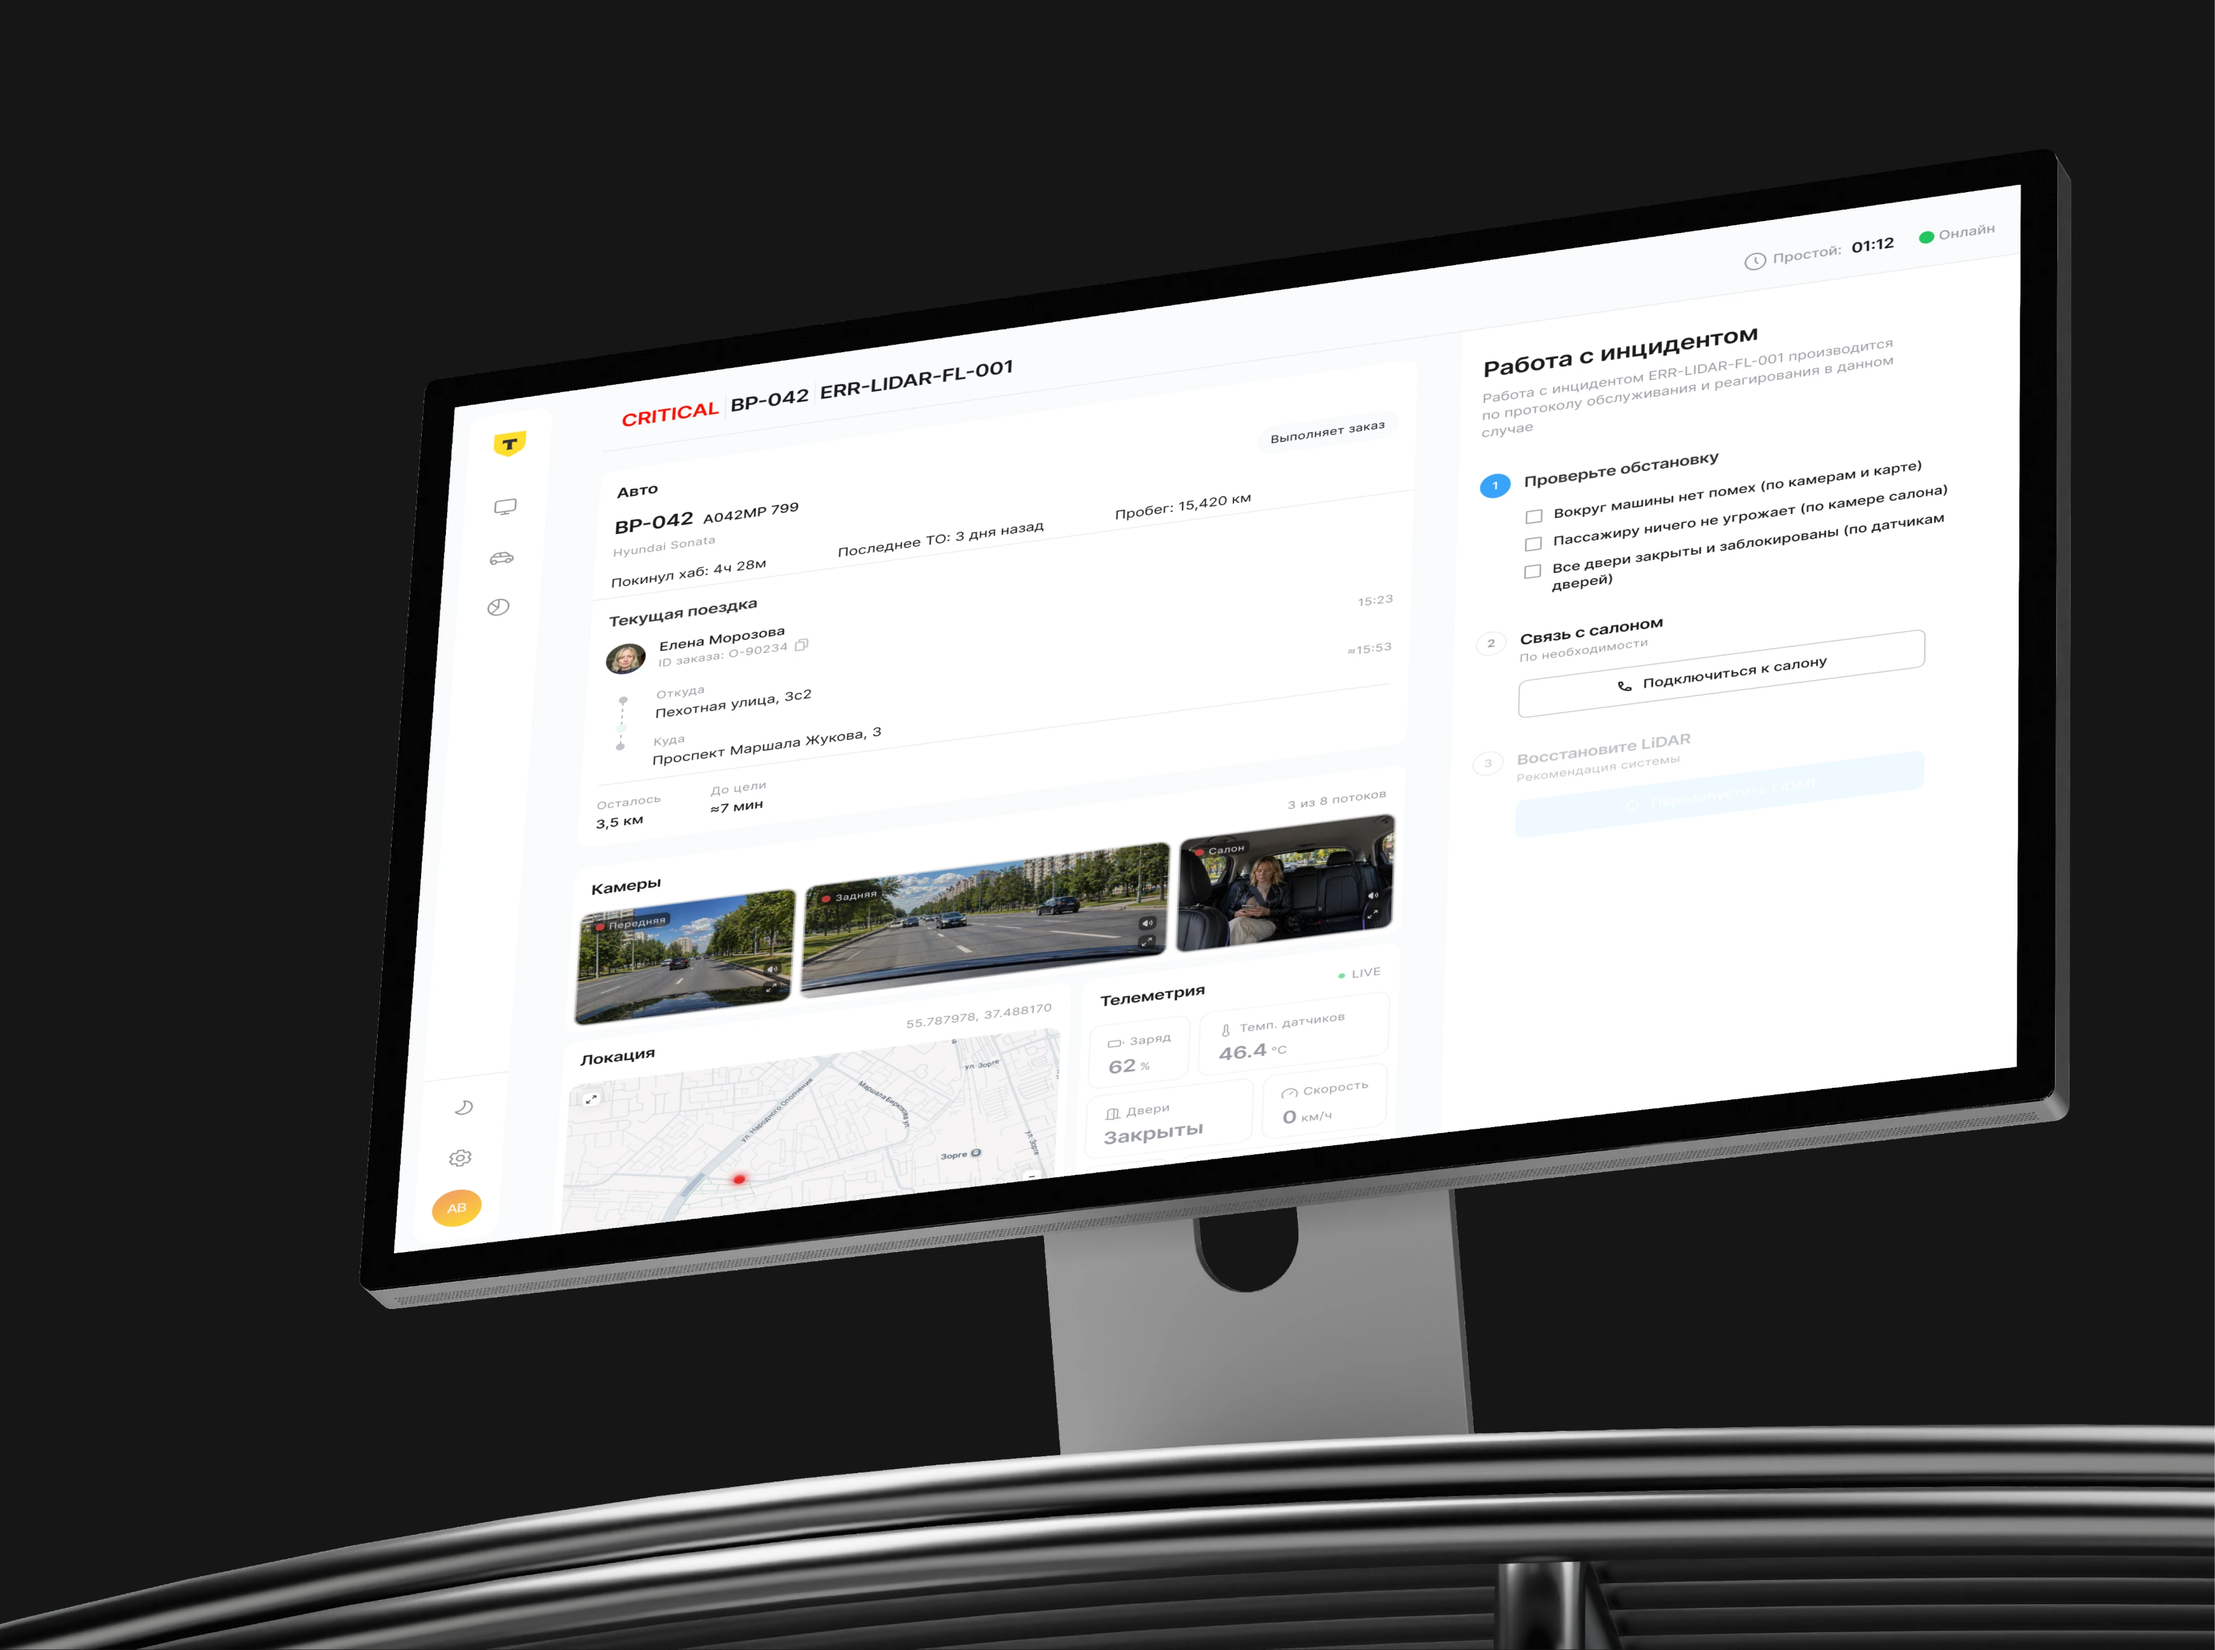
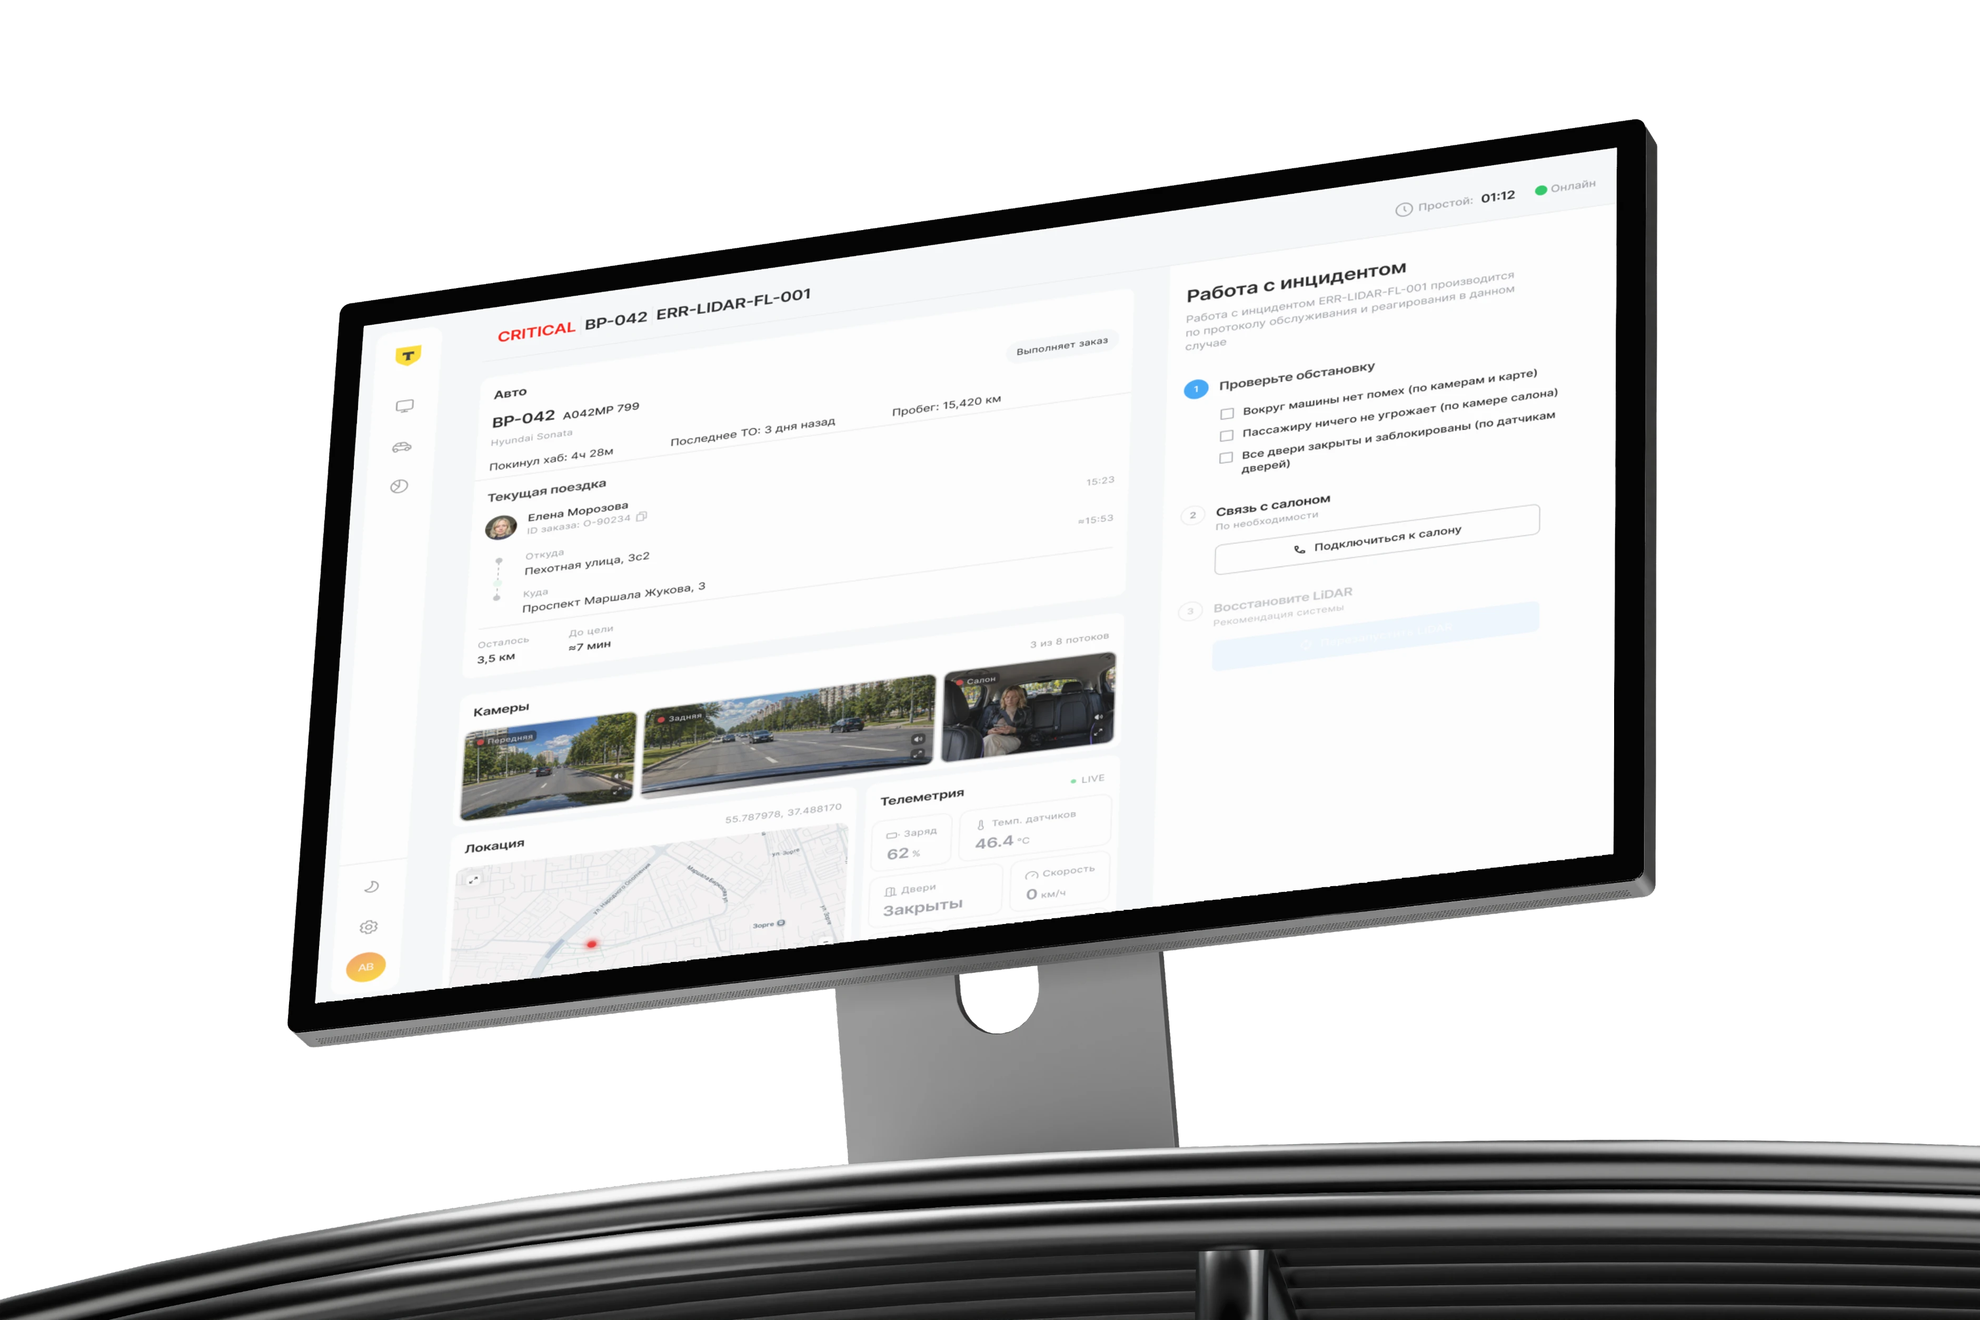
Place the monitor cover from its Figma layers instead of a flat crop.

diff --git a/src/components/cases/story-cases.tsx b/src/components/cases/story-cases.tsx
@@ -6,7 +6,7 @@ const stories: {
   description: string;
   badge?: string;
   coverRight?: boolean;
-  natural?: boolean;
+  bleed?: boolean;
   mark?: "youla" | "tbank";
 }[] = [
   {
@@ -21,7 +21,7 @@ const stories: {
     description: "Тут тоже будет текст, дополнительно описание",
     badge: "Успешное тестовое",
     coverRight: true,
-    natural: true,
+    bleed: true,
     mark: "tbank",
   },
 ];
@@ -37,18 +37,18 @@ export function StoryCases() {
           }`}
         >
           <div
-            className={`${
-              story.natural
-                ? ""
-                : "relative aspect-[770/500.5] overflow-hidden rounded-[26px] bg-[#111] lg:rounded-[2.069cqw]"
+            className={`relative ${
+              story.bleed
+                ? "lg:aspect-[770/500.5]"
+                : "aspect-[770/500.5] overflow-hidden rounded-[26px] bg-[#111] lg:rounded-[2.069cqw]"
             } ${story.coverRight ? "lg:order-2" : ""}`}
           >
             <img
               alt=""
               loading="lazy"
               className={
-                story.natural
-                  ? "block h-auto w-full"
+                story.bleed
+                  ? "block h-auto w-full lg:absolute lg:left-[-26.057%] lg:top-[-31.221%] lg:h-[156.551%] lg:w-[152.618%] lg:max-w-none"
                   : "absolute inset-0 size-full max-w-none object-cover"
               }
               src={asset(story.cover)}
